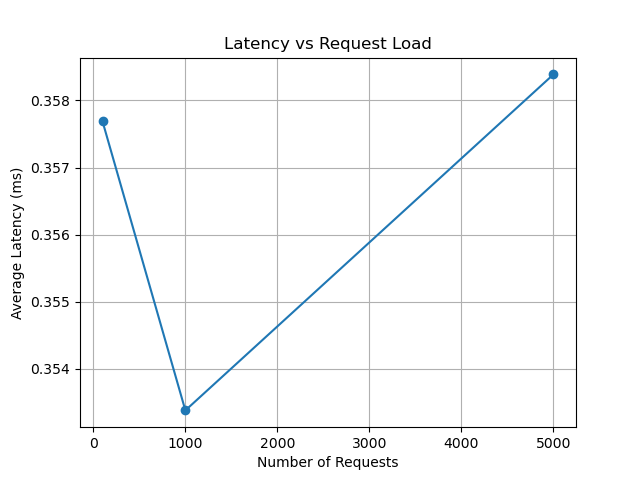
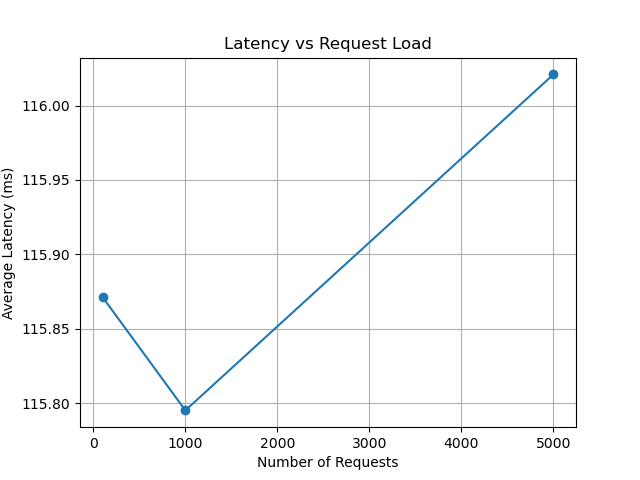
docs: add project README with setup and benchmark instructions

diff --git a/README.md b/README.md
@@ -1,0 +1,86 @@
+# O2R
+
+This repo is the official implementation of O2R paper.
+
+## Repository Structure
+
+- `Cargo.toml` - Rust package manifest and dependency list
+- `config/benchmark.toml` - default benchmark configuration
+- `src/bin/benchmark.rs` - benchmark runner binary
+- `src/config.rs` - configuration loader and threshold helpers
+- `src/benchmark/experiments.rs` - scaling experiments and benchmark workflows
+- `src/benchmark/runner.rs` - request generation and committee benchmarking logic
+- `src/benchmark/csv.rs` - CSV export for benchmark results
+- `src/committee/` - committee and node simulation
+- `src/crypto/` - cryptographic helper modules for keys, hashing, and Schnorr proofs
+- `src/protocol/` - recovery request and state machinery
+- `src/metrics/` - metrics collection and derived statistics
+- `results/` - generated CSV result files
+
+## Build
+
+Install Rust and Cargo, then build the benchmark binary:
+
+```bash
+cargo build --release --bin benchmark
+```
+
+## Run
+
+Run the benchmark binary with the provided configuration file:
+
+```bash
+cargo run --release --bin benchmark
+```
+
+The benchmark runner loads `config/benchmark.toml` by default, executes the full suite, and writes CSV files into the configured output directory.
+
+## Configuration
+
+The benchmark configuration lives in `config/benchmark.toml` and supports:
+
+- `committee_sizes` - list of committee sizes to test
+- `request_counts` - number of requests per experiment
+- `threshold_ratio` - base majority threshold ratio for threshold-scaling experiments
+- `output_dir` - directory where generated CSV files are stored
+
+Example:
+
+```toml
+committee_sizes = [1000, 2000, 5000, 10000]
+request_counts = [100, 1000, 5000]
+threshold_ratio = 0.5
+output_dir = "results"
+```
+
+## Output
+
+The benchmark produces CSV files such as:
+
+- `results/committee_<size>.csv`
+- `results/request_<count>.csv`
+- `results/threshold_<index>.csv`
+
+Each CSV contains these columns:
+
+- `committee_size`
+- `threshold`
+- `total_requests`
+- `approved`
+- `rejected`
+- `avg_latency_ms`
+- `approval_rate`
+- `rejection_rate`
+
+## Notes
+
+- The current prototype focuses on benchmarking the committee approval path and not on a production-ready protocol implementation.
+- `src/main.rs` is a placeholder entrypoint; the benchmark binary is implemented in `src/bin/benchmark.rs`.
+- The code uses `k256`, `sha2`, `ripemd`, `rand`, `hex`, `serde`, and `toml`.
+
+## Contact
+
+...
+## License
+
+...